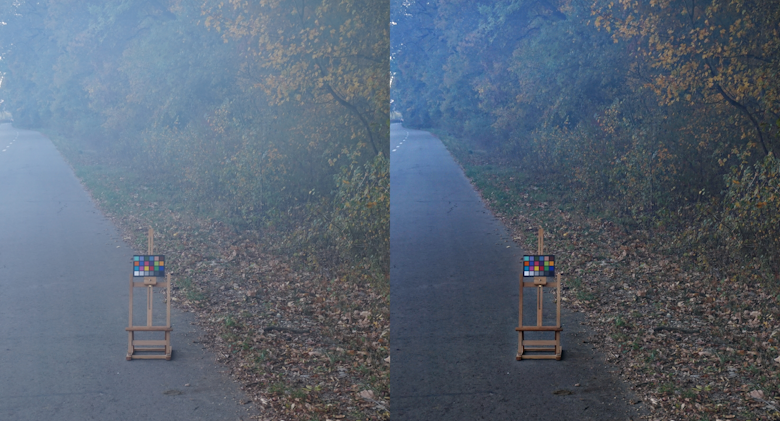
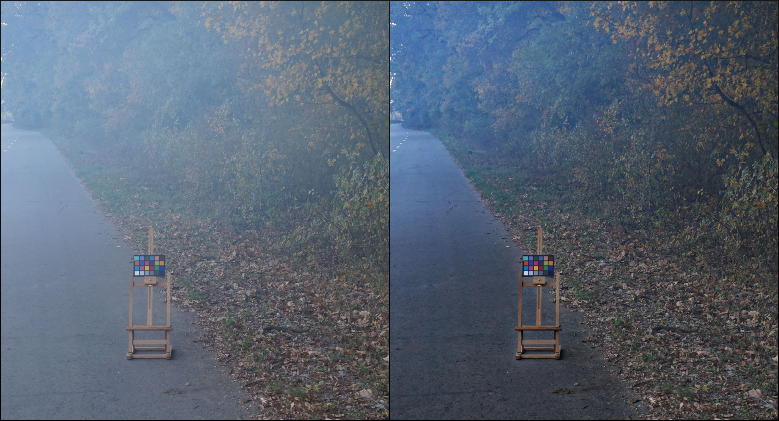
result.png

diff --git a/SimpleDeHaze/habr.md b/SimpleDeHaze/habr.md
@@ -20,7 +20,7 @@
 
 Для решения задачи удаления дымки мы используем библиотеку EmguCV, обертку для OpenCV в .NET. Этот инструмент обеспечивает удобный доступ к широкому спектру функций обработки изображений и видео, и матриц вообще. Причем синтаксис для работы с CPU и GPU примерно одинаковый new Mat() или new GpuMat(). Но есть отличие в вызове методов, которое унаследовано из OpenCV . И при работе с GpuMat требуется более тщательно следить за сборкой мусора, или реализовать свой интерфейс с GC, или придется постоянно использовать using. На github есть issue по очистке памяти GpuMat , но, пока оно не закрыто.
 
-![](https://lh7-us.googleusercontent.com/u8QdlDRVEWBnKRd4rX97s3qHZJXF8TTNP8Y6pyZaiL0MF4V4JGR8uq2Zj3CWlgJhu8YzI-CjXLrzmzRugFBZGTKp_CCMsFXgAmkOzUX8MqBayjSKDd-fVxepolbLm6AJUDUAUGhXtYHmztAS4jvxWoA)
+![](https://raw.githubusercontent.com/yellow444/SimpleDehaze/master/SimpleDeHaze/docs/light.jpg)
 
 Схема атмосферного света была любезно предоставлена [mirasnowfox](https://mirasnowfox.ru)
 
@@ -30,11 +30,11 @@
 
 используя квадратное разложение 
 
-![](https://lh7-us.googleusercontent.com/MBGFGvPvr7e5AGLxCjxBDtTjuMyTveoWfQyYqAGirOcxE_woUN_Sq8Pb0xviVYpUQVcmPd9oQV1izoTISRx_oIVjdzOdbQd3OGe4MqazlQlTa7IU-b1hf7R6H4IKiUZvfPLteTNLFJnnhJCJSevvuQ0)
+![](https://raw.githubusercontent.com/yellow444/SimpleDehaze/master/SimpleDeHaze/docs/image1.jpg)
 
 выберем область с наибольшей яркостью
 
-![](https://lh7-us.googleusercontent.com/2fdeI_M6Bt4kl4gdtBQYhk2WGaqRyY-ejAWzKF9xJg4f2CC9RJGn6t3aQxZ3uq8g9a7X0eZTbROkBxBcEHVlu9Je3h2LeGGnaavVHRlxKof7-ZAOixZZ0RCBDG2cN2XoP-4sV9bCAF6Xy5hiU2wpvNQ)
+![](https://raw.githubusercontent.com/yellow444/SimpleDehaze/master/SimpleDeHaze/docs/image2.jpg)
 
 так мы скорее всего избежим посторонние источники света, например, фары машин, и ускорим последующую сортировку. Далее для полученного участка находим его темный канал: простой, но эффективный способ оценить информацию о глубине сцены. Пример реализации 
 
@@ -59,7 +59,7 @@ private Mat ComputeDarkChannelPatch(Image<Bgr, float> srcImage, int patch)
 
 строим карту трансмиссии 
 
-![](https://lh7-us.googleusercontent.com/f8E_Kt3UeW3YenIuOmFHO7sKls0D32EbGVB-Yn6RpXJbkH3RJ9UQ4rKSypwhkiRj_p9_N-FF_PitvjwCN24X6gTFqnTxLt4yYc1HhyBbesmFh6O3BwCWmhaZYFDurdUfSIdDO6oLiklnyMpJUg74_mI)
+![](https://raw.githubusercontent.com/yellow444/SimpleDehaze/master/SimpleDeHaze/docs/image3.jpg)
 
 по формуле $t(x,y)=e^{-\beta*d(x,y)}$ где  коэффициент ослабления атмосферы, которая оптимально отражает степень проникновения света через туман в каждой точке изображения. Хотя есть более простая альтернатива $t(x,y)=1-{\omega}*d(x,y)$ где $\omega$ количество дымки для удаления
 
@@ -67,7 +67,7 @@ private Mat ComputeDarkChannelPatch(Image<Bgr, float> srcImage, int patch)
 
 к полученной карте трансмиссии применим Guided Filter, для 
 
-![](https://lh7-us.googleusercontent.com/EpXifzPD7bwZ1OH_tE0-A-dwtSIQM_bWQ8BkLFYyeiVKceOkP2BypEAGa9V9IJdU8zekfKtCyCGZdyR_4T18NPy7iZx22nUPJ90K_Gu7RkmSt9m4uYOqmusaFsQV1-k4-jhKZYA5amIuEY_dHTEI-vA)
+![](https://raw.githubusercontent.com/yellow444/SimpleDehaze/master/SimpleDeHaze/docs/image4.jpg)
 
 для смягчения краев у ярких мест изображения. Это могут быть источники света, места с сильным эффектом дымки, различные отражающие поверхности. Для GPU версии я использовал работу Kaiming He (<kahe@microsoft.com>) реализация в MATLAB http\://research.microsoft.com/en-us/um/people/kahe/eccv10/guided-filter-code-v1.rar
 
@@ -75,11 +75,11 @@ private Mat ComputeDarkChannelPatch(Image<Bgr, float> srcImage, int patch)
 
 производится по формуле: $J(x,y)=\frac{I(x,y)-A_c}{max(t(x,y),t_{min})}+A_c$ где I(x,y) - значение туманного пикселя, J(x,y) - значение безтуманного пикселя.
 
-![](https://lh7-us.googleusercontent.com/-2Jv8lAiLDV2yi6_zcllph45fUUCE76UtU9Sif3_g_yMMp8zSYTP-zCLqUVVDMBC6Ob5L-QfNWLjqMnEzYnxLlibwpFhJ0DOdiL1bQm1sJ3Qq8tXqawGy8r4X4ESFR0J_g_YH-x7khVrunfSt6EvQqg)
+![](https://raw.githubusercontent.com/yellow444/SimpleDehaze/master/SimpleDeHaze/docs/01_outdoor_hazy_Cpu.jpg)
 
 Для сравнение изображение перед обработкой
 
-![](https://lh7-us.googleusercontent.com/osOIAnr31i2tAHcI95KeerN0GkOiYW4DJR20HRhsK1vGqarB3jvFU-vXSpkFP3y9XHIApSBCdFwE_IGcdXQszR2sJtVPZhc0Ahqf_NifBc8JQPIN3cRYRiNF6tyYwSLX2hRl2WdBeO7YXe1hwFMV9OE)
+![](https://raw.githubusercontent.com/yellow444/SimpleDehaze/master/SimpleDeHaze/docs/01_outdoor_hazy.jpg)
 
 Применение такого простого метода может значительно улучшить качество изображений и облегчить их последующий анализ и обработку.
 
